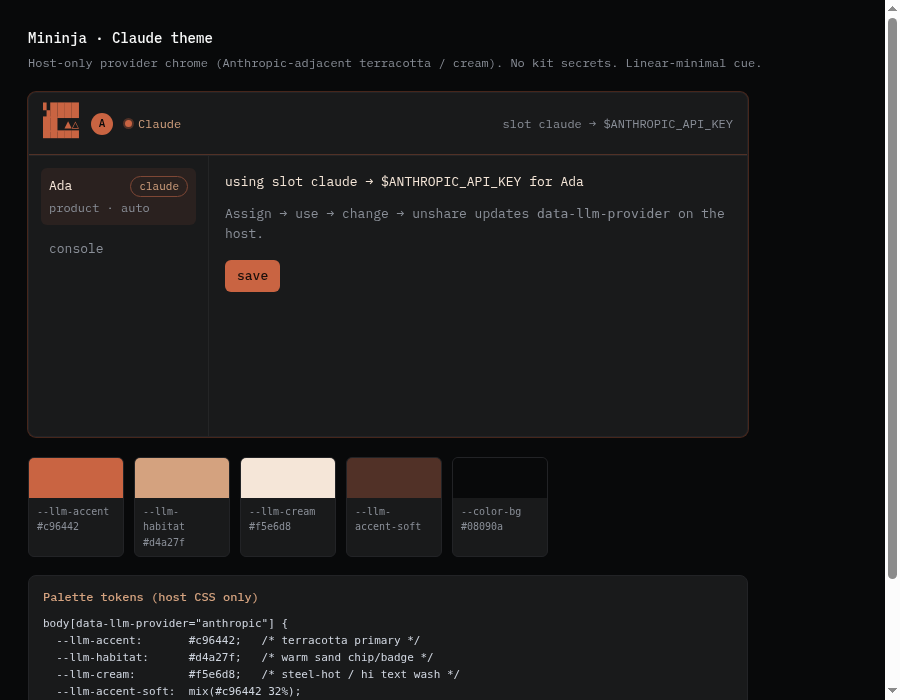
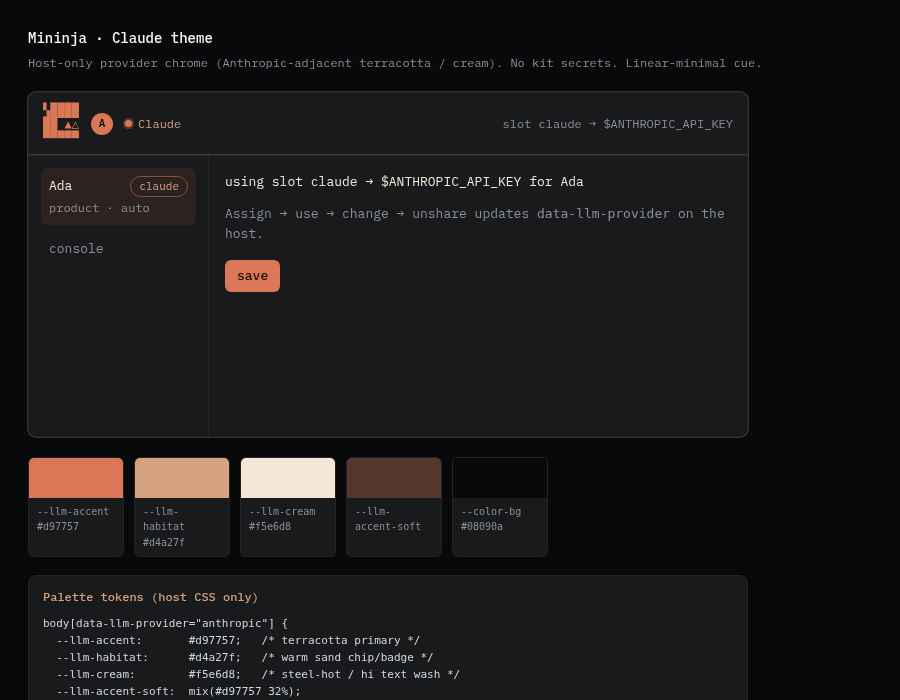
fix(apps): update Claude mascot accent

diff --git a/bot/static/themes/claude-preview.html b/bot/static/themes/claude-preview.html
@@ -30,9 +30,9 @@
       --color-hairline: rgb(255 255 255 / 0.05);
       --color-steel: #8a8f98;
       /* Claude / Anthropic host tokens */
-      --llm-accent: #c96442;
-      --llm-accent-soft: color-mix(in srgb, #c96442 32%, transparent);
-      --llm-ring: rgb(201 100 66 / 0.45);
+      --llm-accent: #d97757;
+      --llm-accent-soft: color-mix(in srgb, #d97757 32%, transparent);
+      --llm-ring: rgb(217 119 87 / 0.45);
       --llm-habitat: #d4a27f;
       --llm-cream: #f5e6d8;
       --color-accent: var(--llm-accent);
@@ -159,21 +159,21 @@
   </div>
 
   <div class="swatches">
-    <div class="swatch"><div class="chip-color" style="background:#c96442"></div><code>--llm-accent<br>#c96442</code></div>
+    <div class="swatch"><div class="chip-color" style="background:#d97757"></div><code>--llm-accent<br>#d97757</code></div>
     <div class="swatch"><div class="chip-color" style="background:#d4a27f"></div><code>--llm-habitat<br>#d4a27f</code></div>
     <div class="swatch"><div class="chip-color" style="background:#f5e6d8"></div><code>--llm-cream<br>#f5e6d8</code></div>
-    <div class="swatch"><div class="chip-color" style="background:rgb(201 100 66 / 0.32)"></div><code>--llm-accent-soft</code></div>
+    <div class="swatch"><div class="chip-color" style="background:rgb(217 119 87 / 0.32)"></div><code>--llm-accent-soft</code></div>
     <div class="swatch"><div class="chip-color" style="background:#08090a"></div><code>--color-bg<br>#08090a</code></div>
   </div>
 
   <div class="tokens">
     <h2>Palette tokens (host CSS only)</h2>
     <pre>body[data-llm-provider="anthropic"] {
-  --llm-accent:       #c96442;   /* terracotta primary */
+  --llm-accent:       #d97757;   /* terracotta primary */
   --llm-habitat:      #d4a27f;   /* warm sand chip/badge */
   --llm-cream:        #f5e6d8;   /* steel-hot / hi text wash */
-  --llm-accent-soft:  mix(#c96442 32%);
-  --llm-ring:         rgb(201 100 66 / 0.45);
+  --llm-accent-soft:  mix(#d97757 32%);
+  --llm-ring:         rgb(217 119 87 / 0.45);
   --color-accent:     var(--llm-accent);
   --color-steel-hot:  var(--llm-cream);
 }</pre>

diff --git a/bot/static/index.html b/bot/static/index.html
@@ -75,12 +75,12 @@
     }
     /* Anthropic / Claude — warm terracotta + cream on dark habitat */
     body[data-llm-provider="anthropic"] {
-      --llm-accent: #c96442;
-      --llm-accent-soft: color-mix(in srgb, #c96442 32%, transparent);
-      --llm-ring: rgb(201 100 66 / 0.45);
+      --llm-accent: #d97757;
+      --llm-accent-soft: color-mix(in srgb, #d97757 32%, transparent);
+      --llm-ring: rgb(217 119 87 / 0.45);
       --llm-habitat: #d4a27f;
-      --color-accent: #c96442;
-      --color-ring: rgb(201 100 66 / 0.45);
+      --color-accent: #d97757;
+      --color-ring: rgb(217 119 87 / 0.45);
       --color-steel-hot: #f5e6d8;
     }
     /* OpenAI — cool green */

diff --git a/bot/README.md b/bot/README.md
@@ -118,7 +118,7 @@ Default habitat chrome reads as “the LLM that’s wired.” `body[data-llm-pro
 
 | Provider | Accent | Habitat cue |
 |----------|--------|-------------|
-| `anthropic` (Claude) | `#c96442` terracotta | `#d4a27f` sand · cream `#f5e6d8` |
+| `anthropic` (Claude) | `#d97757` terracotta | `#d4a27f` sand · cream `#f5e6d8` |
 | `openai` | `#10a37f` | mint habitat |
 | `xai` | `#7c8cff` | indigo (near default) |
 | `other` | `#735ffa` | violet |
